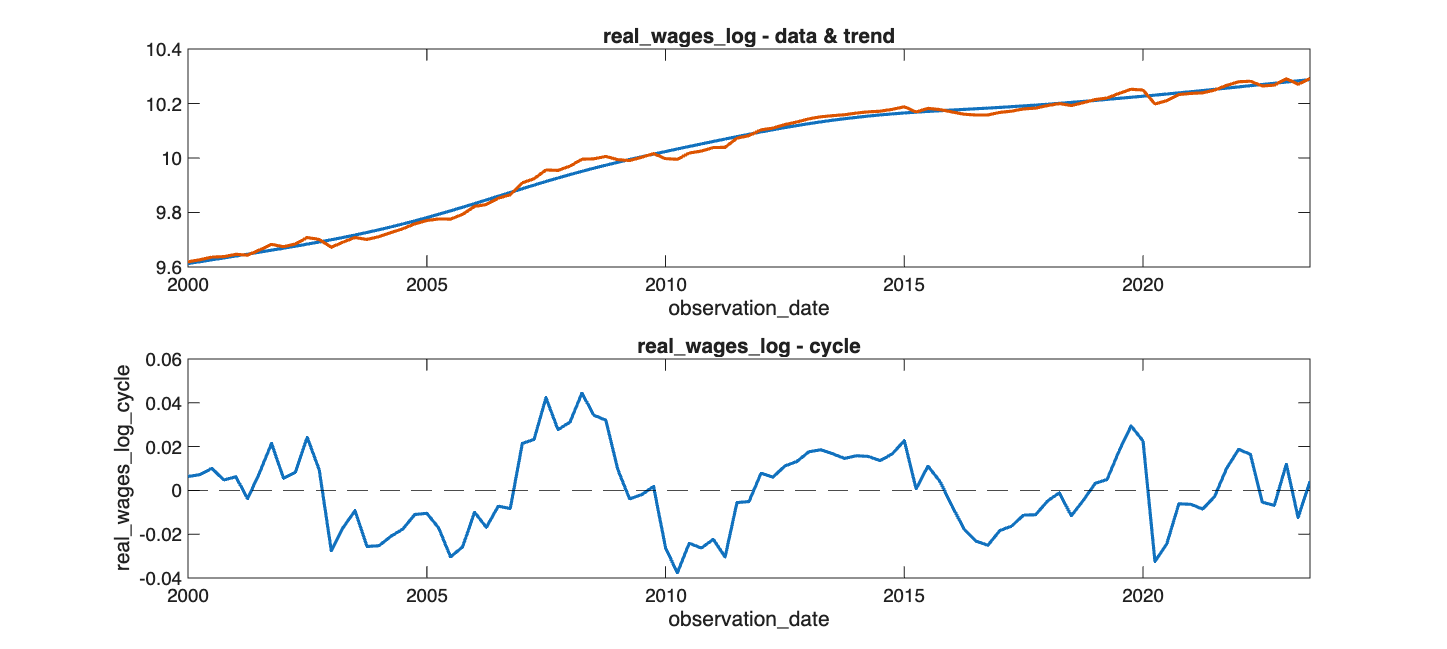
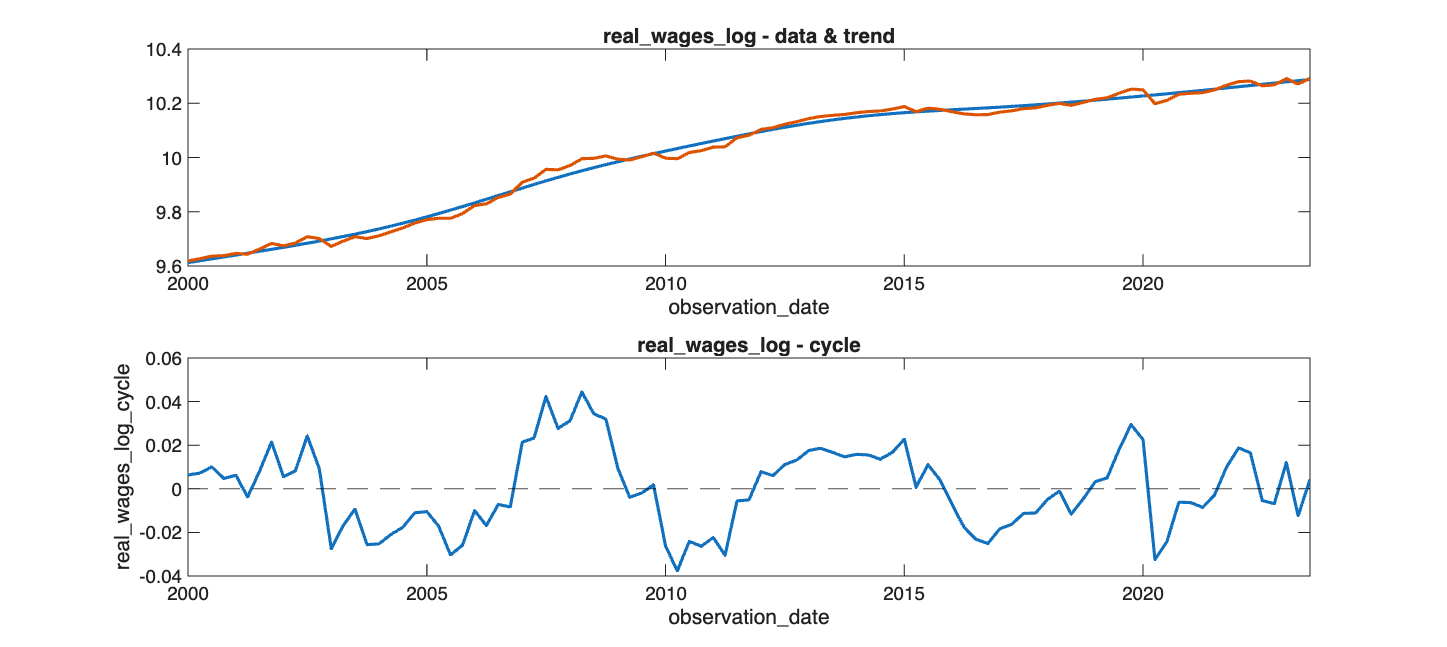
added nkm_params_table

diff --git a/main.m b/main.m
@@ -41,23 +41,22 @@ i = @(data) 0.02 + data.inflation_yoy + 0.5*(data.inflation_yoy - data.inflation
 % data_combined.nominal_rate_qtly = i(data_combined.inflation_qtly, data_combined.inflation_qtly_trend);
 data_combined.nominal_rate_yoy = i(data_combined);
 
-%% Calculate rho parameter for TFP AR(1) process
-z = data_combined.tfp_proxy_log_cycle;
+%% Calculate omega_std parameters for calibration
+tfp_L0 = data_combined.tfp_proxy_log(2:end); % tfp_t
+tfp_L1 = data_combined.tfp_proxy_log(1:end-1); % tfp_{t-1} (first lag)
+ar1_model = fitlm(tfp_L1, tfp_L0); % Regress tfp on its first lag
 
-% Set up current (t) and lagged (t-1) vectors
-z_t = z(2:end);
-z_lag = z(1:end-1);
+rho = ar1_model.Coefficients.Estimate(2); % Get the slope
+rho_se = ar1_model.Coefficients.SE(2); % Slope standard error
 
-% Estimate AR(1) without a constant (zero-mean cycle)
-ar1_model = fitlm(z_lag, z_t, 'Intercept', false);
+omega = data_combined.interest_rate - data_combined.nominal_rate_yoy;
+std_omega = std(omega);
 
-% Extract calibration parameters
-rho = ar1_model.Coefficients.Estimate;
-rho_se = ar1_model.Coefficients.SE; 
-sigma_e = ar1_model.RMSE;
+% Create an 'output' folder with 'figures' and 'tables' subfolders if they don't exist
+if ~exist('output/figures', 'dir'); mkdir('output/figures'); end
+if ~exist('output/tables', 'dir'); mkdir('output/tables'); end
 
-fprintf('AR(1) Persistence (rho): %.4f (Standard Error: %.4f)\n', rho, rho_se);
-fprintf('Shock Volatility (sigma_e): %.4f\n', sigma_e);
+writetable(table(rho, rho_se, std_omega), 'output/tables/nkm_params_table.csv');
 
 % View the first few rows
 head(data_combined)
@@ -66,46 +65,42 @@ head(data_combined)
 baseVars = masterData.Properties.VariableNames';
 numVars = length(baseVars);
 
-% Create an 'output' folder with 'figures' and 'tables' subfolders if they don't exist
-if ~exist('output/figures', 'dir'); mkdir('output/figures'); end
-if ~exist('output/tables', 'dir'); mkdir('output/tables'); end
-
-% Loop through each base variable
-for i = 1:numVars
-    % Extract current variable name as a string
-    varName = string(baseVars{i}); 
-
-    % No need to plot the inflation values
-    if contains(varName, 'inflation')
-        continue;
-    end
-
-    % Construct the column names for trend and cycle
-    trendVar = varName + "_trend";
-    cycleVar = varName + "_cycle";
-
-    % Create a new figure with a 2-row, 1-column layout
-    figure('Name', varName);
-    tiledlayout(2, 1, 'TileSpacing', 'compact'); 
-
-    % Top plot: data and trend
-    nexttile;
-    if strcmp(varName,'interest_rate')
-        plot(data_combined, [trendVar, varName, 'nominal_rate_yoy'], 'LineWidth', 1.5);
-        legend('Trend', 'Original Data', 'Implied Taylor Rate (year-on-year)', 'Location', 'best');
-    else
-        plot(data_combined, [trendVar, varName], 'LineWidth', 1.5);
-    end
-    title(varName + " - data & trend", 'Interpreter', 'none');
-
-    % Bottom plot: cycle
-    nexttile;
-    plot(data_combined, cycleVar, 'LineWidth', 1.5);
-    title(varName + " - cycle", 'Interpreter', 'none');
-    yline(0, 'k--'); % Add a dashed zero line
-
-    saveas(gcf, 'output/figures/' + varName + '.png');
-end
+% % Loop through each base variable
+% for i = 1:numVars
+%     % Extract current variable name as a string
+%     varName = string(baseVars{i}); 
+% 
+%     % No need to plot the inflation values
+%     if contains(varName, 'inflation')
+%         continue;
+%     end
+% 
+%     % Construct the column names for trend and cycle
+%     trendVar = varName + "_trend";
+%     cycleVar = varName + "_cycle";
+% 
+%     % Create a new figure with a 2-row, 1-column layout
+%     figure('Name', varName);
+%     tiledlayout(2, 1, 'TileSpacing', 'compact'); 
+% 
+%     % Top plot: data and trend
+%     nexttile;
+%     if strcmp(varName,'interest_rate')
+%         plot(data_combined, [trendVar, varName, 'nominal_rate_yoy'], 'LineWidth', 1.5);
+%         legend('Trend', 'Original Data', 'Implied Taylor Rate (year-on-year)', 'Location', 'best');
+%     else
+%         plot(data_combined, [trendVar, varName], 'LineWidth', 1.5);
+%     end
+%     title(varName + " - data & trend", 'Interpreter', 'none');
+% 
+%     % Bottom plot: cycle
+%     nexttile;
+%     plot(data_combined, cycleVar, 'LineWidth', 1.5);
+%     title(varName + " - cycle", 'Interpreter', 'none');
+%     yline(0, 'k--'); % Add a dashed zero line
+% 
+%     saveas(gcf, 'output/figures/' + varName + '.png');
+% end
 
 varNames = data_cycle.Properties.VariableNames;
 

diff --git a/timo_main.m b/timo_main.m
@@ -1,38 +1,48 @@
 clearvars; close all; clc;
 
-% Import data
+%% 1. Import data
 masterData = loadMasterData();
 
-% Deflate wages to real terms using the first CPI value as the base
+%% 2. Deflate wages (real wages)
 masterData.wages = (masterData.wages ./ masterData.cpi) * masterData.cpi(1);
 masterData = renamevars(masterData, 'wages', 'real_wages');
 
-% Find all variables except interest rate
-varsToLog = setdiff(masterData.Properties.VariableNames, 'interest_rate');
+%% 3. Keep only common sample (CRUCIAL)
+masterData = rmmissing(masterData);
 
-% Log those variables 
+%% 4. Log variables (ONLY real quantities)
+varsToLog = {'gdp','consumption','investment','hours','real_wages','cpi'};
+
 masterData{:, varsToLog} = log(masterData{:, varsToLog});
 masterData = renamevars(masterData, varsToLog, strcat(varsToLog, '_log'));
 
-% Calculate log(tfp_proxy)
+%% 5. Construct TFP proxy (log form)
 masterData.tfp_proxy_log = masterData.gdp_log - masterData.hours_log;
 
-% Calculate year-on-year inflation
-% We decided not to use quarterly but it's left here for now
-% masterData.inflation_qtly = [NaN; 400 * diff(masterData.cpi_log)];
-masterData.inflation_yoy  = [NaN(4, 1); 100 * (masterData.cpi_log(5:end) - masterData.cpi_log(1:end-4))];
+%% 6. Inflation (YoY, NOT HP filtered)
+masterData.inflation_yoy = [NaN(4,1); ...
+    100 * (masterData.cpi_log(5:end) - masterData.cpi_log(1:end-4))];
 
-% Delete rows with null values. Done here so that lagged cpi data was
-% available to calculate inflation before
+%% 7. Drop NaNs after constructing variables
 masterData = rmmissing(masterData);
 
-[data_trend, data_cycle] = hpfilter(masterData, 'Smoothing', 1600);
+%% 8. Select variables for HP filter (ONLY real quantities)
+vars_hp = {'gdp_log','consumption_log','investment_log', ...
+           'hours_log','real_wages_log','tfp_proxy_log'};
 
-% Rename the variables so they don't clash when combined
-data_trend.Properties.VariableNames = strcat(masterData.Properties.VariableNames, '_trend');
-data_cycle.Properties.VariableNames = strcat(masterData.Properties.VariableNames, '_cycle');
+data_hp = masterData(:, vars_hp);
 
-% Horizontally concatenate them into one large timetable
+%% 9. Apply HP filter (lambda = 1600 for quarterly)
+[data_trend, data_cycle] = hpfilter(data_hp, 'Smoothing', 1600);
+
+%% 10. Rename variables (clean naming)
+data_cycle.Properties.VariableNames = strcat(vars_hp, '_cycle');
+
+%% 11. Add NON-filtered variables
+data_cycle.inflation_yoy_cycle = masterData.inflation_yoy;
+data_cycle.interest_rate_cycle = masterData.interest_rate;
+
+%% 12. FINAL DATASET (ready for moments)
 data_combined = [masterData, data_trend, data_cycle];
 
 %% Calculate interest rate according to Taylor Rule
@@ -42,12 +52,10 @@ i = @(data) 0.02 + data.inflation_yoy + 0.5*(data.inflation_yoy - data.inflation
 data_combined.nominal_rate_yoy = i(data_combined);
 
 %% Calculate omega_std parameters for calibration
-tfp_L1 = data_combined.tfp_proxy_log(1:end-1); % tfp_{t-1} (first lag)
-tfp_L0 = data_combined.tfp_proxy_log(2:end); % tfp_t
-ar1_model = fitlm(tfp_L1, tfp_L0);
+ar1_model = fitlm(data_combined.tfp_proxy_log(1:end-1), data_combined.tfp_proxy_log(2:end), 'Intercept', false);
 
-rho = ar1_model.Coefficients.Estimate(2) % Get the slope
-rho_se = ar1_model.Coefficients.SE(2) % Slope standard error
+rho = ar1_model.Coefficients.Estimate
+rho_se = ar1_model.Coefficients.SE
 tfp_shock_std = ar1_model.RMSE
 
 omega = data_combined.interest_rate - data_combined.nominal_rate_yoy;
